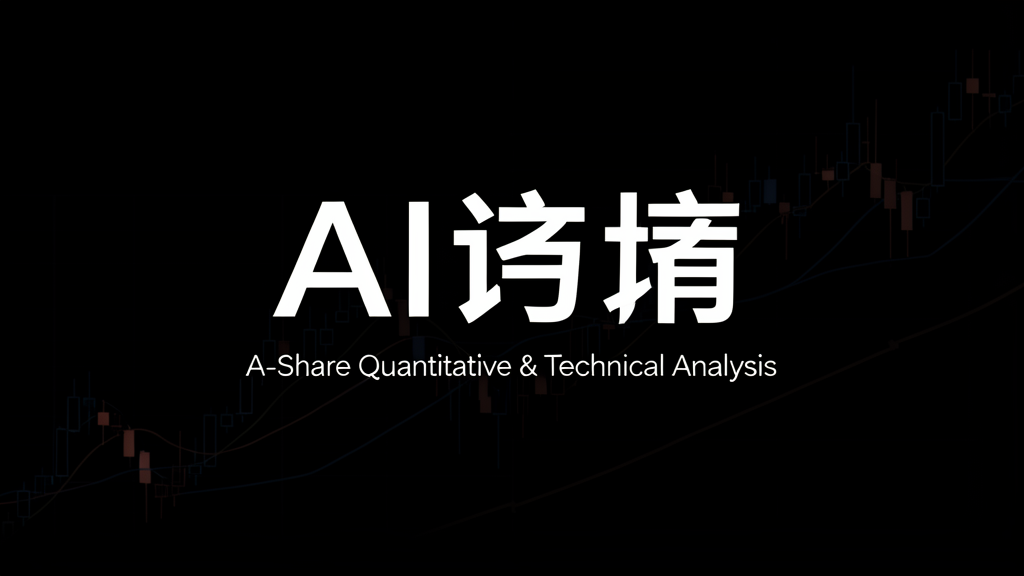
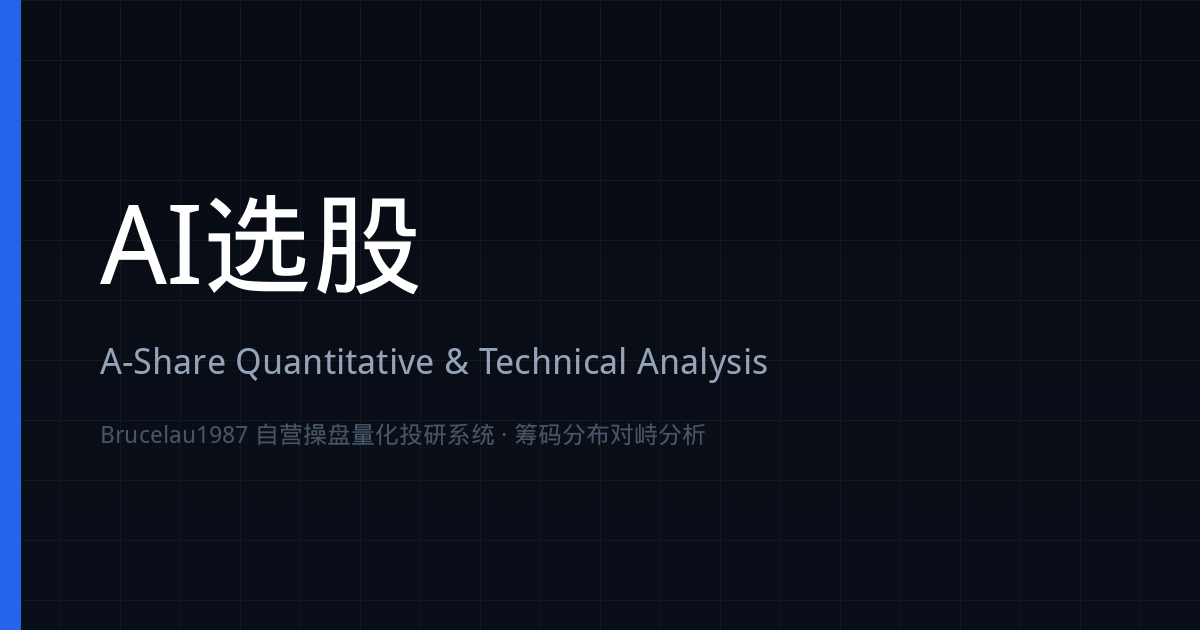
feat(og): generate customized OG images for 7 stocks with real BJT data and fix default cover typos

diff --git a/src/content.config.ts b/src/content.config.ts
@@ -14,6 +14,7 @@ const blog = defineCollection({
 			pubDate: z.coerce.date(),
 			updatedDate: z.coerce.date().optional(),
 			heroImage: z.optional(image()),
+			image: z.string().optional(),
 			tags: z.array(z.string()).optional().default([]),
 		}),
 });